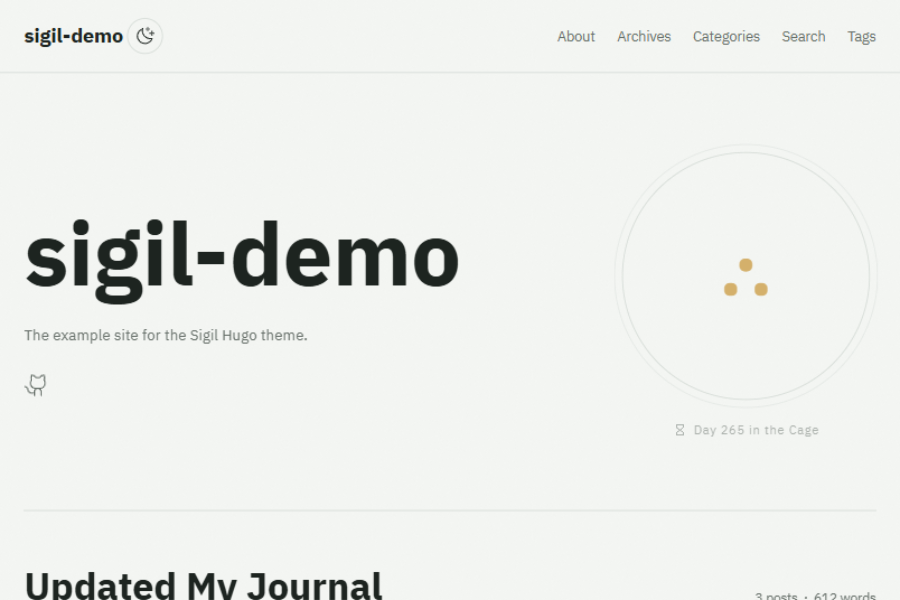
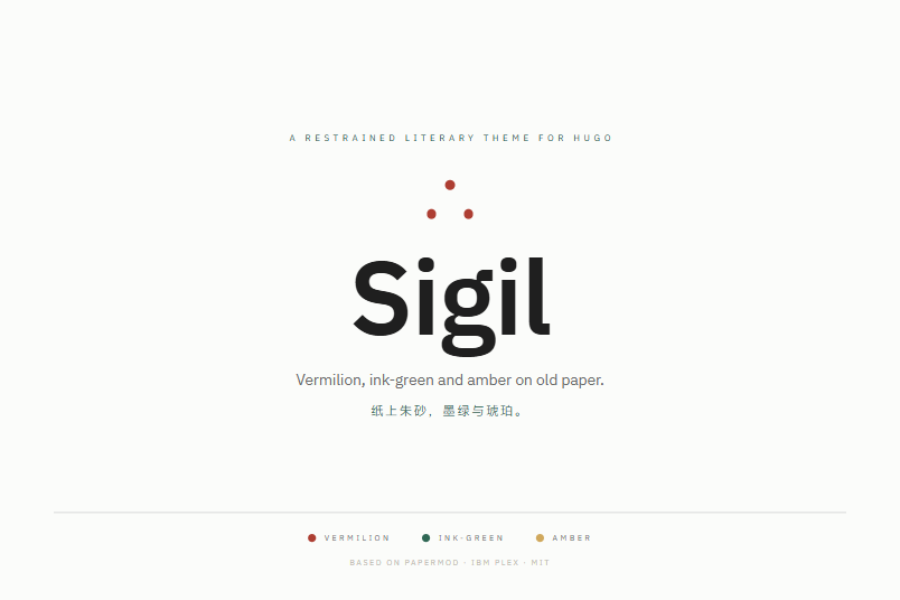
media: title-page cover art
Replace the raw demo screenshot with a composed title page in the theme's
own voice: paper surface, vermilion therefore-seal, Plex wordmark, the
three accents as a colophon. Rendered from images/cover.html (source
committed) with self-hosted Plex woff2; captured at both showcase
dimensions (viewport-proportional layout).

diff --git a/images/cover.html b/images/cover.html
@@ -1,0 +1,62 @@
+<!-- 封面源文件:改后在 1500×1000 与 900×600 视口各截一张,替换 screenshot.png / tn.png。
+     字体:从 .cache/ibm-plex 的 plex-sans(-sc) tgz 抽 complete woff2(IBMPlexSans-Regular/SemiBold、IBMPlexSansSC-Regular)放到本文件旁 fonts/ 目录,本地起 http.server 渲染。 -->
+<!doctype html>
+<html lang="en">
+<head>
+<meta charset="utf-8">
+<title>Sigil — cover</title>
+<style>
+  @font-face { font-family:"PlexC"; src:url(fonts/IBMPlexSans-Regular.woff2) format("woff2"); font-weight:400; font-style:normal; }
+  @font-face { font-family:"PlexC"; src:url(fonts/IBMPlexSans-SemiBold.woff2) format("woff2"); font-weight:600; font-style:normal; }
+  @font-face { font-family:"PlexCSC"; src:url(fonts/IBMPlexSansSC-Regular.woff2) format("woff2"); font-weight:400; font-style:normal; }
+  * { margin:0; padding:0; box-sizing:border-box; }
+  html,body { height:100%; }
+  body {
+    background:#fbfcfa;
+    color:#1f1f1f;
+    font-family:"PlexC","PlexCSC",sans-serif;
+    display:flex; flex-direction:column; align-items:center;
+    text-align:center;
+    padding:7vh 6vw 5.5vh;
+  }
+  .main { margin:auto 0; display:flex; flex-direction:column; align-items:center; }
+  .kicker {
+    color:#2f6754; font-size:1.02vw; letter-spacing:.42em; text-indent:.42em;
+    text-transform:uppercase; font-weight:400;
+  }
+  .seal { margin:6vh 0 4.2vh; position:relative; width:5.2vw; height:4.4vw; }
+  .seal i { position:absolute; width:1.1vw; height:1.1vw; border-radius:50%; background:#ad3e32; }
+  .seal i:nth-child(1){ left:50%; top:0; transform:translateX(-50%); }
+  .seal i:nth-child(2){ left:0; bottom:0; }
+  .seal i:nth-child(3){ right:0; bottom:0; }
+  h1 { font-size:11.6vw; font-weight:600; letter-spacing:-0.015em; line-height:1; }
+  .tagline { margin-top:3.4vh; font-size:1.7vw; color:#6c6c6c; }
+  .tagline-zh { margin-top:1.6vh; font-size:1.38vw; color:#2f6754; letter-spacing:.16em; }
+  .colophon { width:100%; }
+  .rule { height:1px; background:#d6d6d6; margin-bottom:3.2vh; }
+  .palette { display:flex; justify-content:center; gap:3.4vw; margin-bottom:2.4vh; }
+  .chip { display:flex; align-items:center; gap:.7vw; font-size:.92vw;
+          letter-spacing:.3em; text-indent:.3em; text-transform:uppercase; color:#6c6c6c; }
+  .chip i { width:.9vw; height:.9vw; border-radius:50%; }
+  .meta { font-size:.9vw; color:#bdbab1; letter-spacing:.2em; text-transform:uppercase; }
+</style>
+</head>
+<body>
+  <div class="main">
+    <p class="kicker">A restrained literary theme for Hugo</p>
+    <div class="seal" aria-hidden="true"><i></i><i></i><i></i></div>
+    <h1>Sigil</h1>
+    <p class="tagline">Vermilion, ink&#8209;green and amber on old paper.</p>
+    <p class="tagline-zh">纸上朱砂，墨绿与琥珀。</p>
+  </div>
+  <div class="colophon">
+    <div class="rule"></div>
+    <div class="palette">
+      <span class="chip"><i style="background:#ad3e32"></i>Vermilion</span>
+      <span class="chip"><i style="background:#2f6754"></i>Ink&#8209;green</span>
+      <span class="chip"><i style="background:#d0a85c"></i>Amber</span>
+    </div>
+    <p class="meta">Based on PaperMod &middot; IBM Plex &middot; MIT</p>
+  </div>
+</body>
+</html>
